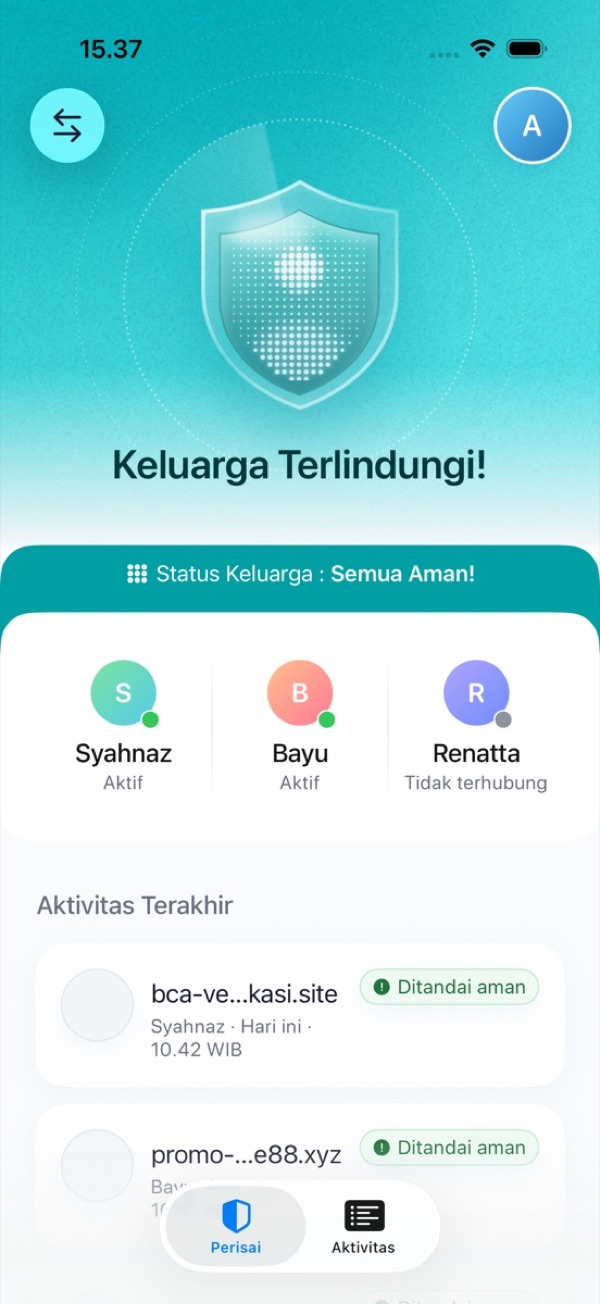
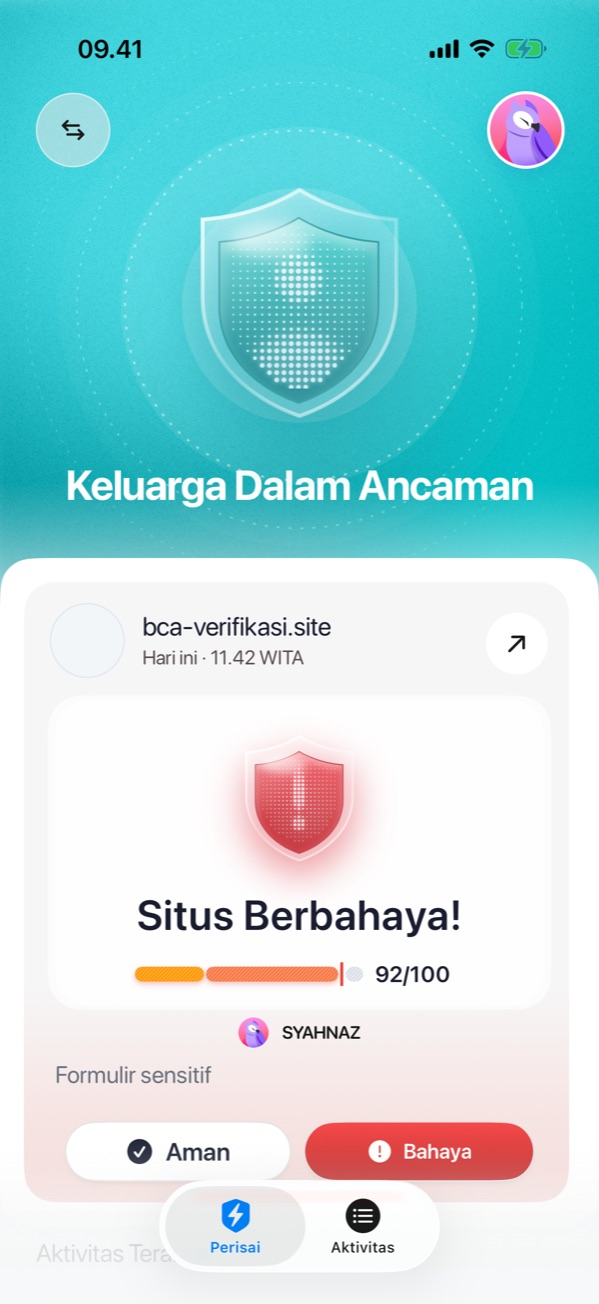
docs: refresh README and screenshots against main (#644)
- New hero and "See it work" screenshots: Safari warning sheet,
  Guardian home, Detail, Activity, Protected home, Personal home,
  ON-04 setup, Family mode banner.
- Features: plain-language reasons, family-wide Safe, push without
  URL or score, Home banner after role changes, All Websites setup,
  optional online check.
- Scoring: layer 3 impersonation model on, layer 4 LLM off in
  production since 19 Nov 2026.
- App Store (Indonesia) and support page links.

diff --git a/README.md b/README.md
@@ -24,15 +24,15 @@
 
 <table align="center">
 <tr>
-<td><img src=".github/readme/screen-splash.png" width="170" alt="Splash: the Shoo shield logo on a blue gradient" /></td>
-<td><img src=".github/readme/screen-safari-warning.jpg" width="170" alt="Safari: a fake BSI page at 45% with the Be careful card at the bottom" /></td>
-<td><img src=".github/readme/screen-detail.jpg" width="170" alt="App Detail: bca-verifikasi.site/login blocked at 92%, with Safe and Danger buttons for the Guardian" /></td>
-<td><img src=".github/readme/screen-guardian.jpg" width="170" alt="Guardian home: Family protected, three members and their recent activity" /></td>
-<td><img src=".github/readme/screen-protected.jpg" width="170" alt="Protected home: You are protected, connected to a Guardian, with blocked and warning counts" /></td>
+<td><img src=".github/readme/screen-safari-warning.jpg" width="170" alt="Safari: the Situs Mencurigakan! sheet at 37/100 on a look-alike page, with a plain-language reason and Leave page / Continue anyway" /></td>
+<td><img src=".github/readme/screen-guardian.jpg" width="170" alt="Guardian home: Keluarga Dalam Ancaman, with the blocked page of Syahnaz at 92/100 and Safe / Danger buttons" /></td>
+<td><img src=".github/readme/screen-detail.jpg" width="170" alt="App Detail: bca-verifikasi.site/login at 92/100, a one-line summary, the per-layer score bar and Safe / Danger buttons" /></td>
+<td><img src=".github/readme/screen-activity.jpg" width="170" alt="Activity: every family member's warned and blocked pages, filtered by All, Warning and Danger" /></td>
+<td><img src=".github/readme/screen-protected.jpg" width="170" alt="Protected home: You are protected, connected to a Guardian, and the latest blocked page waiting for the Guardian" /></td>
 </tr>
 </table>
 
-<p align="center"><sub>Shoo opens on its shield. Safari warns on a look-alike bank page, the Guardian sees the blocked page in the app and decides, and the Protected person sees what was stopped.</sub></p>
+<p align="center"><sub>Safari warns on a look-alike page in plain words. The Guardian sees the blocked page on Home, opens it and decides, and follows the whole family in Activity. The Protected person sees that the Guardian will check it. (Screens in Bahasa Indonesia, the app's default language.)</sub></p>
 
 </div>
 
@@ -44,7 +44,8 @@
 | **Platforms** | iPhone (iOS 17.0+) with the Safari Web Extension; a Chrome (MV3) build for desktop runs layers 1–2 only |
 | **API** | Cloudflare Worker `shoo-api`, see [`backend/API.md`](backend/API.md) |
 | **Languages** | English and Bahasa Indonesia, in the app, the extension and every reason text |
-| **Status** | Team project, shipped to testers through TestFlight ([workflow](.github/workflows/testflight.yml)) |
+| **Get it** | [App Store (Indonesia)](https://apps.apple.com/id/app/id6826557107) · help page at [shoo.ai.id/support](https://shoo.ai.id/support) |
+| **Status** | Team project, on the App Store in Indonesia; new builds go to testers through TestFlight first ([workflow](.github/workflows/testflight.yml)) |
 
 > Team project. Detection weights are still being tuned, so some scam pages score low and some real pages score high. See [Limits](#limits).
 
@@ -82,31 +83,36 @@ Everyone starts in **Personal** mode: Shoo protects their own browsing. Turning 
 | Feature | How |
 |---|---|
 | **A live score on every page** | The extension scores the page as you browse. A small bubble shows the score and its colour in the corner of the page. |
-| **Warnings that match the risk** | At 30% a card says "Be careful" with the top reason. At 50% a sheet covers the page and sensitive form fields are struck through. |
+| **Warnings that match the risk** | From 30 a sheet says the site is suspicious, shows the score bar per layer and the top reason. From 50 sensitive form fields are struck through too. |
+| **Reasons in plain words** | Every reason reads like a sentence a parent understands ("This address looks like a scammer's address: …"), in Safari and on the app's Detail screen. Only the display text changed; signal ids stay the same. |
 | **A block with no bypass** | At 80% (the default; the thresholds come from `GET /config/public`) the tab moves to Shoo's own block page. Websites cannot script that page, so the block cannot be removed from the page. |
-| **The Guardian decides** | A blocked page is sent to the Guardian with a push. The Guardian sees the score, the reasons and a copy of the page, then taps **Safe** or **Danger**. |
-| **Safe opens the page again** | When the Guardian marks a page Safe, the block page opens it for the Protected person by itself. |
+| **The Guardian decides** | A warned or blocked page is sent to the Guardian with a short push ("Waspada: Ibu membuka situs mencurigakan."), with no URL, domain or score in it. The Guardian sees the score, the reasons and a copy of the page, then taps **Safe** or **Danger**. |
+| **Safe counts for the whole family** | When the Guardian marks a link Safe, on any member's scan or their own, every phone in that family treats that link as safe, and the block page opens it by itself. It never reaches another family or the global list. |
 | **Join with a code or a link** | The Guardian shares a 6-digit code, a QR code or an invite link (WhatsApp, Messages). If the app is not installed, the link opens an install page first. |
+| **Every change lands on Home** | Turning Family mode on, joining a Guardian or disconnecting ends on Home with a banner that says what changed. |
 | **Activity for the whole family** | The Guardian sees every member's warned and blocked pages, filtered by person and by status. |
+| **Setup that really turns Shoo on** | Onboarding walks through the Safari switch **and** "All Websites → Allow". Without the second step Safari asks per site and Shoo sees nothing. The online check is a separate, optional box. |
 | **Delete means gone** | Delete my data removes the device and its history right away. Scans auto-delete after 14 days. |
 
 | Score | Status | What the person sees |
 |---|---|---|
 | 0–29 | `normal` | Only the score bubble. Nothing is stored anywhere. |
-| 30–49 | `warning` | First card plus highlights on the risky parts |
-| 50–79 | `warning` | Second card, sensitive forms struck through |
+| 30–49 | `warning` | Warning sheet plus highlights on the risky parts |
+| 50–79 | `warning` | Warning sheet, sensitive forms struck through |
 | ≥ 80 | `blocked` | Block page until a Guardian marks it Safe |
 
 ## See it work
 
 <table>
 <tr>
-<td width="50%"><img src=".github/readme/screen-safari-form.jpg" alt="Safari: a fake free-quota page asking for a name and a Telegram number, scored 39% with a Be careful card" /></td>
-<td width="50%"><img src=".github/readme/screen-invite.jpg" alt="Send invite sheet: a QR code, the join code, a refresh timer, and share buttons for WhatsApp and Messages" /></td>
+<td width="33%"><img src=".github/readme/screen-onboarding.jpg" alt="Onboarding, Turn on the extension: four steps including Tap All Websites, then Allow, and an optional box for the online check" /></td>
+<td width="33%"><img src=".github/readme/screen-pribadi.jpg" alt="Personal home: Perlu Waspada! with a Become a Guardian card and the latest warned pages" /></td>
+<td width="33%"><img src=".github/readme/screen-toast.jpg" alt="Family home right after Family mode was turned on: a banner says Guardian mode is on, with an Invite button, above the invite code and QR" /></td>
 </tr>
 <tr>
-<td><b>Warning in Safari.</b> A fake "free 60 GB" page on free hosting asks for a phone number. Shoo scores it 39% and explains why in one line.</td>
-<td><b>Inviting family.</b> The Guardian shares a QR code, a code or a link. The code refreshes on its own.</td>
+<td><b>Setup.</b> Four short steps, including "All Websites → Allow". The online check is a separate box that can stay unticked.</td>
+<td><b>Personal mode.</b> Everyone starts here. Shoo guards their own Safari, and a card offers to become a Guardian.</td>
+<td><b>Family mode on.</b> The change lands on Home with a banner and an Invite button, next to the code and QR to invite family.</td>
 </tr>
 </table>
 
@@ -119,9 +125,10 @@ flowchart LR
   P["Page opens in Safari"] --> L1{"Layer 1<br/>on the blocklist?"}
   L1 -->|yes| B["Score 100<br/>blocked"]
   L1 -->|no| L2["Layer 2 (on device)<br/>look-alike domain · cheap TLD<br/>brand + bait word · link dissector"]
-  L2 --> L3["Layer 3 (server)<br/>PIN / OTP / card / KTP forms<br/>urgent text · off-site logo · domain age"]
-  L3 --> L4["Layer 4 (server)<br/>LLM reality check"]
-  L4 --> S["score = min(100, sum of signal weights)"]
+  L2 --> L3["Layer 3 (server)<br/>PIN / OTP / card / KTP forms<br/>urgent text · off-site logo · domain age<br/>Shoo's own impersonation model"]
+  L3 -.-> L4["Layer 4 (server)<br/>LLM reality check<br/>off in production"]
+  L3 --> S["score = min(100, sum of signal weights)"]
+  L4 -.-> S
   S --> UI{"Score band"}
   UI -->|"< 30"| N["Bubble only"]
   UI -->|"30–79"| W["Warning card / sheet"]
@@ -129,7 +136,9 @@ flowchart LR
 ```
 
 - **Layers 1–2 run on the phone** ([`detector/`](detector/README.md)), in under 50 ms, with no network call. If the server is down, they still run.
-- **Layers 3–4 run on the server** ([`ai/`](ai/README.md), `POST /analyze`). The page content sent there is never stored.
+- **Layers 3–4 run on the server** ([`ai/`](ai/README.md), `POST /analyze`), only when the person ticked the online check. The page content sent there is never stored.
+- **Layer 3 includes Shoo's own impersonation model** (TF-IDF + logistic regression judges with gradient-boosted combiners, `SHOO_L3_MODEL = "impersonation"`, on since 19 Nov 2026). It runs inside the Worker: no third party sees the page.
+- **Layer 4 (the LLM reality check) is off in production** since 19 Nov 2026 (`SHOO_L4 = "off"` in [`ai/wrangler.toml`](ai/wrangler.toml)). The code stays and can be switched back on.
 - The score is recomputed every time a layer returns, so it can rise while the page loads. A blocklist match ends the scan at 100.
 
 Rules and weights: [`contracts/detector-interface.md`](contracts/detector-interface.md). Blocklist design: [`docs/design/blocklist.md`](docs/design/blocklist.md).
@@ -153,6 +162,8 @@ sequenceDiagram
   X->>X: block page opens the site
 ```
 
+A Safe verdict is saved for the link across the whole family, so every member's block page on that link opens, not only the one whose scan the Guardian looked at.
+
 Only pages that reach 30 are ever stored by the backend. The verdict lookup also starts only at 30. The running score stays on the phone, in the in-page bubble.
 
 ## Architecture
@@ -171,7 +182,7 @@ flowchart LR
   subgraph CF["Cloudflare"]
     direction TB
     API["Worker shoo-api<br/>Hono · zod · postgres.js"]
-    AI["Worker shoo-ai<br/>POST /analyze · /public-blocklist"]
+    AI["Worker shoo-ai<br/>POST /analyze (layer 3 rules + model)<br/>/public-blocklist"]
     HD["Hyperdrive"]
     R2[("R2<br/>page replicas · favicons")]
     R2A[("R2 archive<br/>evidence for review")]
@@ -276,7 +287,7 @@ CI runs the matching checks on every pull request ([`.github/workflows/`](.githu
 | App | Swift 5 mode, SwiftUI, iOS 17+, String Catalog (EN + ID), Keychain, App Group |
 | Extension | Safari Web Extension (plain JavaScript content scripts), native messaging to the app |
 | Detection on device | Plain JavaScript, built into one script, data in JSON |
-| Detection on server | Cloudflare Worker, Hono, plain JavaScript (ESM + JSDoc), RDAP, LLM reality check |
+| Detection on server | Cloudflare Worker, Hono, plain JavaScript (ESM + JSDoc), RDAP, Shoo's own impersonation model (layer 3); LLM reality check (layer 4, off in production) |
 | Backend | Cloudflare Worker (Hono, zod, postgres.js), Hyperdrive, R2, Cron Triggers, APNs |
 | Database | Supabase Postgres, pgTAP |
 | Chrome | Manifest V3, same pipeline and UI as Safari |
@@ -284,7 +295,8 @@ CI runs the matching checks on every pull request ([`.github/workflows/`](.githu
 
 ## Privacy and safety
 
-- **Low-score browsing is never stored.** Below a score of 30 nothing reaches the Shoo backend. With online checking on (asked during setup), each public page's text and form layout (never what was typed) goes to `POST /analyze` for layers 3–4 and is not stored. With it off, only layers 1–2 run, on the phone.
+- **Low-score browsing is never stored.** Below a score of 30 nothing reaches the Shoo backend. With online checking on (an optional box during setup; Shoo works without it), each public page's text and form layout (never what was typed) goes to `POST /analyze` for layer 3 and is not stored. With it off, only layers 1–2 run, on the phone.
+- **No page goes to an outside AI provider.** Layer 4 (LLM) is off in production; layer 3's model runs inside Shoo's own Worker.
 - **Page content sent for analysis is never stored.** `POST /analyze` reads it and forgets it.
 - **What you type never leaves the page.** The page copy kept as evidence is the page's own HTML, never the values in its fields.
 - **The full URL never leaves the browser.** Only a shareable form of it is sent.
@@ -299,7 +311,9 @@ Threat model and secret rules: [`plan/alief/SECURITY.md`](plan/alief/SECURITY.md
 - **Weights are estimates.** Signal weights are tuned against an eval set, not real traffic. Some scam pages score under 30, and some real pages score above it.
 - **No Dynamic Island.** A Safari extension cannot start a Live Activity itself; the push route (path C, #49) was built and then dropped on 17 Nov 2026 (#555). The running score lives only in the in-page bubble ([spike](docs/spikes/dynamic-island.md)).
 - **Chrome runs layers 1–2 only**, with no pairing and no Guardian.
-- **If the AI service is down,** layers 3–4 are skipped and the score comes from layers 1–2 alone.
+- **If the AI service is down,** layer 3 is skipped and the score comes from layers 1–2 alone.
+- **Layer 4 is switched off.** Pages that only an LLM would catch (a reasonable-looking page asking for something unreasonable) are now left to layer 3's model.
+- **Safari needs "All Websites → Allow".** If a person leaves Shoo on "Ask", Safari hides pages from it; the app shows Shoo as off until it is fixed.
 - **Hoax detection is Phase 2**, not part of this version.
 
 ## Working rules
